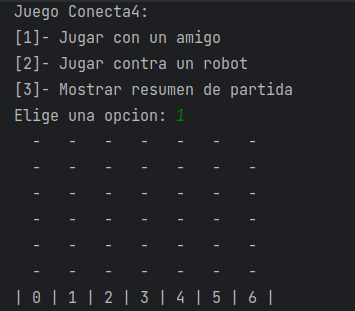
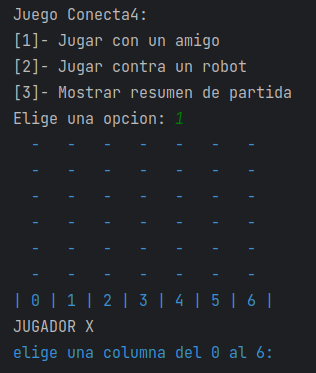
update readme & clean code project

diff --git a/src/Conecta4.java b/src/Conecta4.java
@@ -11,7 +11,7 @@ public class Conecta4 {
     private static long tiempoTranscurrido;
     private static final int turnosJuego = 42;
     private static int contadorTurnos;
-    private static char[][] tablero = new char[6][7];
+    private static final char[][] tablero = new char[6][7];
     private static final char[] jugador = {'X', 'O'};
 
     public static void conectaCuatro() {
@@ -49,33 +49,25 @@ public class Conecta4 {
         for (char[] chars : tablero) {
             Arrays.fill(chars, '-');
         }
-        /*
-        for (int i = 0; i < tablero.length; i++) {
-            for (int j = 0; j < tablero[i].length; j++) {
-                tablero[i][j] = '-';
-            }
-        }
-         */
     }
-
 
     public static void imprimirTablero() {
         for (int i = 0; i < filas; i++) {
             for (int j = 0; j < columnas; j++) {
                 if (j == 0) {
                     if (tablero[i][j] == 'X') {
-                        System.out.print("  " + "\033[31m" + tablero[i][j] + "\033[0m"); // color rojo
+                        System.out.print("  " + "\033[31m" + tablero[i][j] + "\033[0m");    // color rojo en secuencia ANSI
                     } else if (tablero[i][j] == 'O') {
-                        System.out.print("  " + "\033[33m" + tablero[i][j] + "\033[0m");   //color amarillo en secuencia ANSI
+                        System.out.print("  " + "\033[33m" + tablero[i][j] + "\033[0m");    //color amarillo en secuencia ANSI
                     } else {
                         System.out.print("  " + "\033[34m" + tablero[i][j] + "\033[0m");
                     }
                 } else {
                     // System.out.print("   " + tablero[i][j]);
                     if (tablero[i][j] == 'X') {
-                        System.out.print("   " + "\033[31m" + tablero[i][j] + "\033[0m"); // color rojo
+                        System.out.print("   " + "\033[31m" + tablero[i][j] + "\033[0m");
                     } else if (tablero[i][j] == 'O') {
-                        System.out.print("   " + "\033[33m" + tablero[i][j] + "\033[0m");   //color amarillo en secuencia ANSI
+                        System.out.print("   " + "\033[33m" + tablero[i][j] + "\033[0m");
                     } else {
                         System.out.print("   " + "\033[34m" + tablero[i][j] + "\033[0m");
                     }
@@ -90,7 +82,7 @@ public class Conecta4 {
         if (fichaEnColumna >= 0 && fichaEnColumna < columnas) {
             return true;
         } else {
-            System.out.println("\033[31m" + "COLUMNA DE FICHA INEXISTENTE!" + "\033[0m"); // color rojo
+            System.out.println("\033[31m" + "COLUMNA DE FICHA ERRONEA!" + "\033[0m");
             return false;
         }
     }
@@ -102,7 +94,9 @@ public class Conecta4 {
     public static boolean agregarFichaTablero(int indiceJugador) {
         Scanner sc = new Scanner(System.in);
         System.out.print("JUGADOR " + jugador[indiceJugador] + "\033[34m\nelige una columna del 0 al 6: \033[0m");
-        int ficha = sc.nextInt();
+        char fichaChar = sc.next().charAt(0);
+        // 'a' - '0' = 97 - 48 =
+        int ficha = fichaChar - '0';
         if (comprobarRangoDeFicha(ficha)) {
             if (comprobarColumnaLlena(ficha)) {
                 System.out.println("\033[31m" + "COLUMNA LLENA!" + "\033[0m"); // color rojo
@@ -146,14 +140,12 @@ public class Conecta4 {
     }
 
     /*
-
     [0][0] [0][1] [0][2] [0][3] [0][4] [0][5] [0][6]
     [1][0] [1][1] [1][2] [1][3] [1][4] [1][5] [1][6]
     [2][0] [2][1] [2][2] [2][3] [2][4] [2][5] [2][6]
     [3][0] [3][1] [3][2] [3][3] [3][4] [3][5] [3][6]
     [4][0] [4][1] [4][2] [4][3] [4][4] [4][5] [4][6]
     [5][0] [5][1] [5][2] [5][3] [5][4] [5][5] [5][6]
-
     */
 
     public static boolean fichasEnHorizontal(char fichaJugador) {
@@ -280,6 +272,10 @@ public class Conecta4 {
         return false;
     }
 
+    public static void resumenPartida() {
+        tiempoPartida();
+    }
+
     public static boolean comprobarGanador() {
         Scanner sc = new Scanner(System.in);
 
@@ -300,9 +296,5 @@ public class Conecta4 {
             return true;
         }
         return false;
-    }
-
-    public static void resumenPartida() {
-        tiempoPartida();
     }
 }

diff --git a/README.md b/README.md
@@ -34,12 +34,6 @@ Ejecutar el archivo Main.java
   java Main.java
 ```
 
-## Help
-Any advice for common problems or issues.
-```
-command to run if program contains helper info
-```
-
 ## Autores
 
 [@Daruuu](https://github.com/Daruuu)
@@ -64,7 +58,63 @@ Tablero de juego:
 
 Representacion grafica de la matriz que he utilizado para el juego:
 ![matriz de caracteres](Enunciado/Screenshots/matriz-chars-juego.png)
-## Acknowledgments
 
-Inspiration, code snippets, etc.
-* []()
+
+## Funcionalidades
+
+* conectaCuatro()
+  - Se ejecuta el juego.
+
+
+* opcionesJuego()
+  - Regresa un numero entero que és la opcion que elegimos.
+
+
+* imprimirTablero()
+  - Imprime el tablero vacio.
+ 
+
+* comprobarRangoDeFicha()
+  - Comprueba que la entrada sea menor a la variable `columnas`.
+
+
+* agregarFichaTablero()
+  - Se actualiza el tablero con cada jugada
+  
+
+
+* turnosJugadores()
+  - Dado una condicion se itera por cada jugador
+
+
+* tiempoPartida()
+  - Formateo la hora en minutos-segundos
+
+
+* fichasEnHorizontal()
+  - compruebo si hay un ganador de forma horizontal 
+
+
+* fichasEnVertical()
+  - compruebo si hay un ganador de forma vertical
+
+
+* diagonalIzquierdaInferiorADerechaSuperior1(), 
+  - itero para comprobar desde los extremos `[3][0] [0][3]` hasta `[5][0] [0][5]`
+
+* diagonalIzquierdaInferiorADerechaSuperior2()
+  - itero para comprobar desde los extremos `[5][2] [0][6]` hasta `[5][3] [2][6]`
+
+
+* diagonalDerechaInferiorAIzquierdaSuperior1()
+  - itero para comprobar desde los extremos `[3][6] [0][3]` hasta `[5][6] [0][1]`
+* diagonalDerechaInferiorAIzquierdaSuperior2()
+  - itero para comprobar desde los extremos `[5][5] [0][0]` hasta `[5][3] [2][0]`
+
+
+* resumenPartida()
+  - muestra el tiempo total de la partida jugada
+
+
+* ccomprobarGanador()
+  - Hace una comparacion de sí UNA de las funciones de comprobación retorna `true`, y muestra el jugador ganador.
